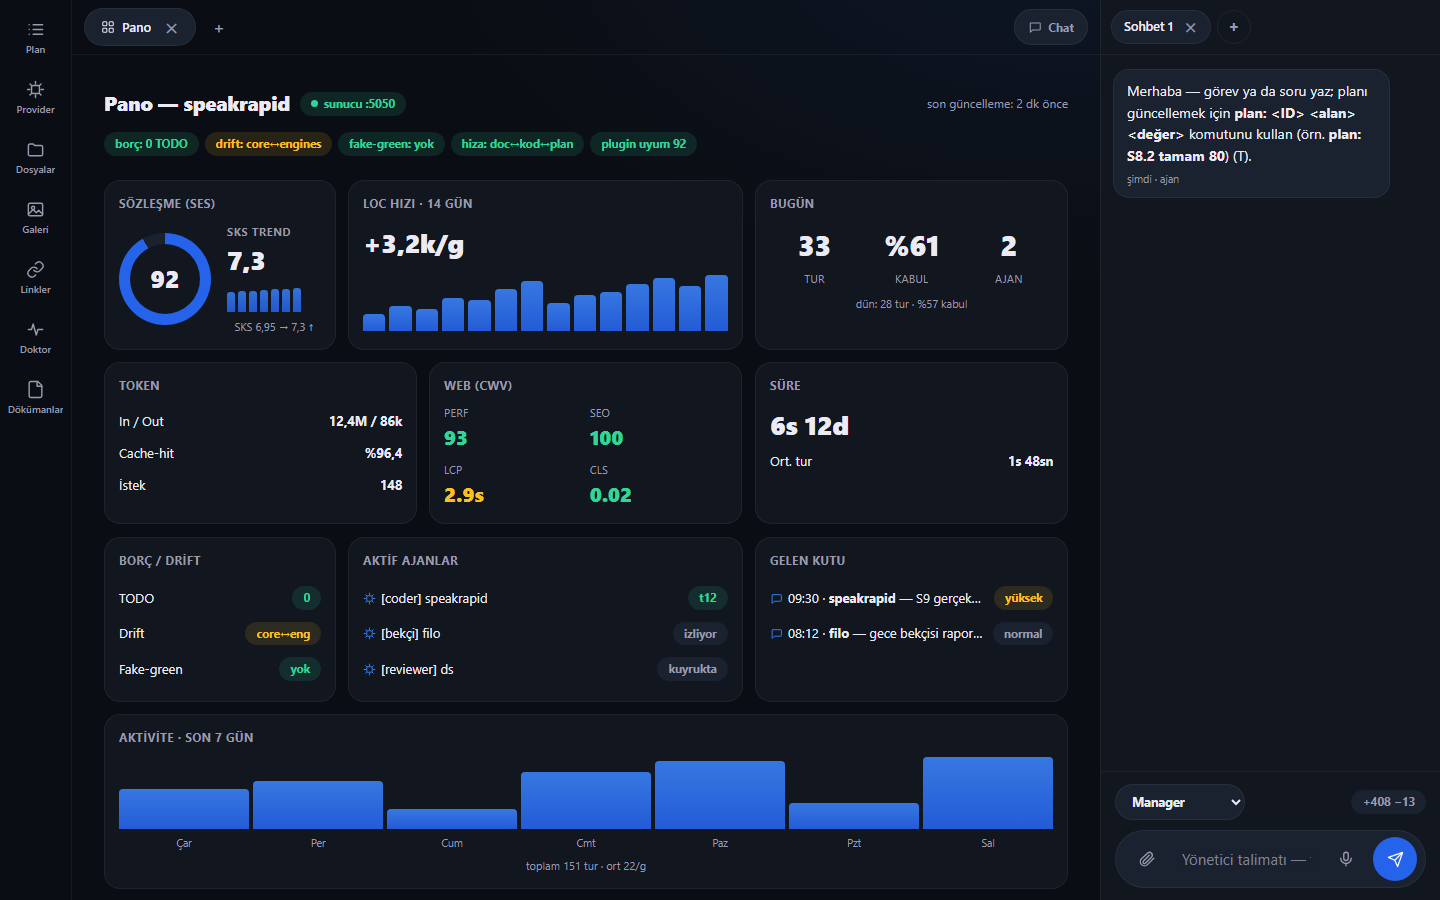
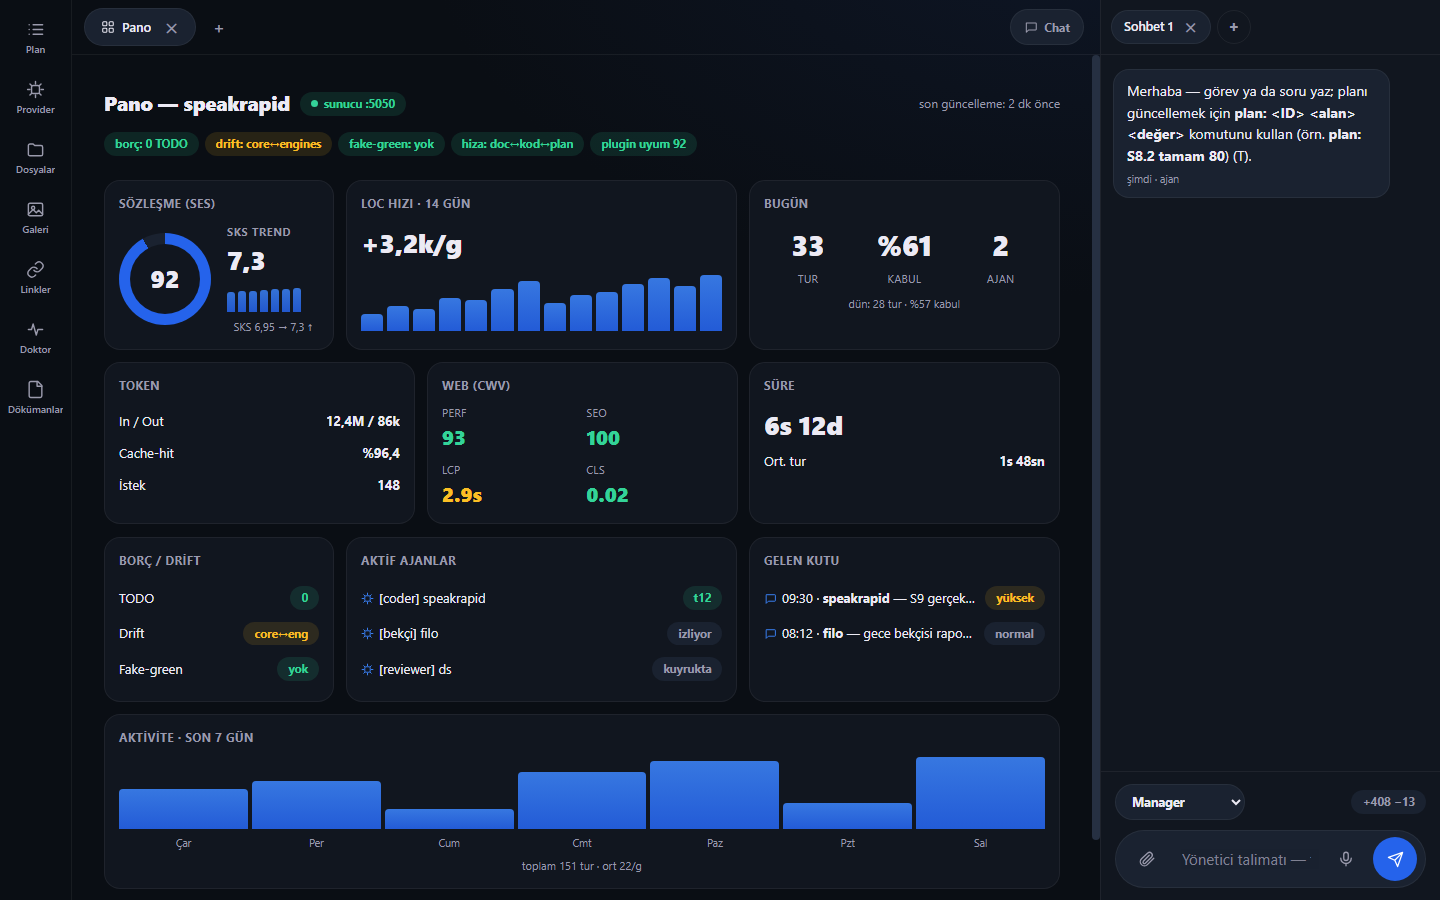
mockup mobil PNG duzeltme: Edge headless min-width kenetlenmesi (492px) kesik kareler uretmisti - CDP setDeviceMetricsOverride ile gercek 375x812 DPR2 + cek.mjs tekrarlanabilir uretici + tab-toggle sticky (mobilde Chat sabit) + DERSLER 2 ders

diff --git a/plans/mockup/pano-mockup-2026-10-12.html b/plans/mockup/pano-mockup-2026-10-12.html
@@ -56,7 +56,7 @@
   .arti-menu div{display:flex;align-items:center;padding:11px 14px;min-height:38px;border-radius:8px;cursor:pointer;color:var(--metin);font-weight:600;font-size:13px}
   .arti-menu div:hover{background:var(--kart)}
   .arti-menu svg{width:13px;height:13px;margin-right:7px}
-  .tab-toggle{margin-left:auto;align-self:center;background:var(--kart2);border:1px solid var(--sinir);color:var(--soluk);border-radius:99px;padding:7px 13px;font-size:12px;font-family:inherit;cursor:pointer;display:flex;align-items:center;gap:6px;min-height:36px;flex:0 0 auto}
+  .tab-toggle{position:sticky;right:4px;z-index:2;margin-left:auto;align-self:center;background:var(--kart2);border:1px solid var(--sinir);color:var(--soluk);border-radius:99px;padding:7px 13px;font-size:12px;font-family:inherit;cursor:pointer;display:flex;align-items:center;gap:6px;min-height:36px;flex:0 0 auto}
   .tab-toggle:hover{color:var(--metin)}
   .tab-toggle svg{width:14px;height:14px}
   /* === 6. Icerik: sekme yuzeyleri kendi scroll tasir === */

diff --git a/CODEMAP.md b/CODEMAP.md
@@ -1,4 +1,4 @@
-# CODEMAP — paseo-plugin (OTOMATIK URETILDI: HEAD 61dc45c — elle duzenleme)
+# CODEMAP — paseo-plugin (OTOMATIK URETILDI: HEAD f978dfd — elle duzenleme)
 
 Ajan once bu haritadan hedef dosyayi secer, SADECE onu acar. Toplu tarama yasak. Butce hedefi: ~1k token.
 
@@ -6,7 +6,7 @@ Ajan once bu haritadan hedef dosyayi secer, SADECE onu acar. Toplu tarama yasak.
 - `AGENTS.md` (0.9KB) — AGENTS.md — paseo-plugin (L0) | Hızlı yön | Yapı
 - `ANAYASA.md` (1.8KB) — ANAYASA — paseo-plugin | 1. Hizalama Anahtarları (öncelik sırasıyla) | 2. SSOT Maddeleri
 - `ANAYASA-SABLONU.md` (2.6KB) — ANAYASA — <proje adı> | 1. Hizalama Anahtarları (öncelik sırasıyla — çakışmada üstteki kazanır) | 2. SSOT Maddeleri (her konunun TEK doğru kaynağı — başka yerde kopya = hata)
-- `DERSLER.md` (15.3KB) — DERSLER — paseo-plugin (L5)
+- `DERSLER.md` (15.8KB) — DERSLER — paseo-plugin (L5)
 - `DERSLER-SABLONU.md` (0.3KB) — DERSLER — <PROJE> | Dersler
 - `FERMANLAR.md` (2.6KB) — FERMANLAR — Paseo Verimlilik Sistemi Aktivasyon Emirleri (v2.0, 2026-10-11) | Ferman 1 — Geçiş (plugin gelene kadar her yeni ajanın ilk mesajı) | Ferman 2 — İnşa (paseo-verimlilik plugin'ini yaptırma emri; birleşik planın bekleyen onayı)
 - `HANDOFF-SABLONU.md` (0.4KB) — HANDOFF — <PROJE> (<TARIH-SAAT>) | Bağlam | Yapılanlar (kanıtlı)
@@ -52,7 +52,7 @@ Ajan once bu haritadan hedef dosyayi secer, SADECE onu acar. Toplu tarama yasak.
 - `plans\handoff\HANDOFF-2026-10-12-2040.md` (2.8KB) — HANDOFF-2026-10-12-2040 — mockup v10 (6 subagent entegrasyonu) kapanışı | Bu oturumda kapananlar | Doğrulama kanıtı (R)
 - `plans\handoff\HANDOFF-2026-10-13-0047.md` (2KB) — HANDOFF-2026-10-13-0047 — context-rot %88 kapanisi | Bu oturumda kapananlar | K-0021 Adim-1 dogrulama özeti (gece, R)
 - `plans\mockup\cek.mjs` (3.1KB) — async function waitUp(){ for(let i=0;i<60;i++){ try{ const r=await fetch('http://127.0.0.1:'+PORT+'/json/version'); if(r.ok) return; }catch{} await new Promise(r=>setTimeout(r,250)); } throw new Error('devtools gelmedi'); } | function cmd(method,params){ const i=++id; ws.send(JSON.stringify({id:i,method,params})); return new Promise(res=>pend.set(i,res)); }
-- `plans\mockup\DESIGN.md` (8.2KB) — DESIGN.md — Pano Mockup Tasarım Sistemi (v11) | 1. Tokenlar | 2. Yerleşim (v10)
+- `plans\mockup\DESIGN.md` (8.4KB) — DESIGN.md — Pano Mockup Tasarım Sistemi (v11) | 1. Tokenlar | 2. Yerleşim (v10)
 - `plans\mockup\parcalar\v10\01-nav.md` (15.7KB) — 01-nav — v10 Navigasyon Mimarisi Fragment'ı | 1. Davranış Spec'i | 2. HTML Fragment'ı
 - `plans\mockup\parcalar\v10\02-chat.md` (14.8KB) — 02-chat — Sağ Dock (Chat) Fragment'ı · v10 | 1) Davranış spec'i | 2) HTML fragment'ı
 - `plans\mockup\parcalar\v10\03-plan.md` (20.9KB) — 03 · Plan Görünümleri — v10 fragment'ı | 1. Spec | 2. HTML fragment

diff --git a/DERSLER.md b/DERSLER.md
@@ -71,3 +71,5 @@
 - 2026-10-12 · node_repl patch zincirinde writeFileSync'siz çağrı = kayıp iş: global replace bir çağrıda bellekte kaldı, sonraki çağrı diskten taze okuyunca üzerine yazdı — 15 replace uçtu. Kural: her node_repl patch çağrısı ATOMİK olur: aynı çağrıda oku → değiştir → yaz → diskten yeniden okuyup marker doğrula (mockup v11 turu).
 - 2026-10-12 · Patch anchor metninde Türkçe/Unicode kullanma — rg deseni dersinin node-replace kuzeni: DESIGN.md'de "ışıma" anchor'ı normalize farkıyla bulunamadı (YOK hatası). Kural: indexOf/replace anchor'ı her zaman ASCII seç (renk kodu, id gibi); Türkçe yalnız yeni içerikte olur. Ek: exec_command + node -e içinde tek-tırnak kaçışı yoktur — Türkçe/özel karakterli yazımı node_repl'e taşı (mockup v11 turu, kalite 4/28 %14).
 - 2026-10-13 · node_repl'de TS kodu üretirken kaçış tuzağı: JS tek-tırnak string içinde `\\'` backslash+string-sonu üretir (parse hatası); TS çift-tırnak string'de apostrof zaten kaçış istemez — kural: üretilen kod apostrof içeriyorsa JS tarafında backtick template kullan, apostrof çıplak kalsın (v0.12 rollup turu, 2 ardışık parse hatası, kalite %14 tetikleyicisi).
+- Edge/Chrome headless `--window-size` <~500px genislikte minimum pencere boyutuna kenetlenir (375 istenir 492 render edilir, PNG kesik cikar) — mobil ekran goruntusu icin CDP `Emulation.setDeviceMetricsOverride` sart (`plans/mockup/cek.mjs`). Ayni URL'e hash ile navigate reload tetiklemez; durum cekimi arasinda `about:blank` reset. (R: 2026-10-13 galeri cekimi)
+- Arka-plan sekmesinde IntersectionObserver ateslenmez: galeri/dokuman sayfalarinda `loading="lazy"` resimleri bos birakir; kucuk galerilerde lazy kullanma. (R: 2026-10-13)

diff --git a/plans/mockup/DESIGN.md b/plans/mockup/DESIGN.md
@@ -69,5 +69,6 @@ Rail öğeleri \`<button>\` (klavye doğal) · tab'lar \`role=tab\`/\`aria-selec
 ## v11.3 (2026-10-13)
 - **Galeri:** `galeri.html` — 7 durum PNG'i (png/), filtre (Tumu/Mobil/Desktop), lightbox (tik+Esc), lazy yok (arka-plan sekmede IntersectionObserver ateslenmez). Mobil tek sutun, desktop auto-fill grid.
 - **Hash durumlari:** mockup sonunda `hashDurumUygula` — `#nav` `#chat` `#plan` `#dock-kapali` (+ ile birlesir); galeri/ekran-goruntusu cekimlerinin durum girisi.
-- **PNG uretimi:** Edge headless `--window-size` + `--virtual-time-budget=3000` + DPR 1; her kare oncesi DOM olcumu (bottom-sheet boyutlari, composer konumu, tasma=0).
+- **PNG uretimi:** `cek.mjs` — Edge headless + CDP setDeviceMetricsOverride (mobil 375x812 DPR2, desktop 1440x900 DPR1; `--window-size` <500px kenetlenir, kullanma); her kare oncesi DOM olcumu (bottom-sheet boyutlari, composer konumu, tasma=0).
 - **Duzeltme:** composer-ust "10 calisiyor" rozeti kaldirildi (+408 −13 korundu).
+- **tab-toggle sticky:** cok sekmeli mobilde Chat dugmesi tabbar kaymasinda sabit kalir (`position:sticky;right:4px`, R: scroll testi).
